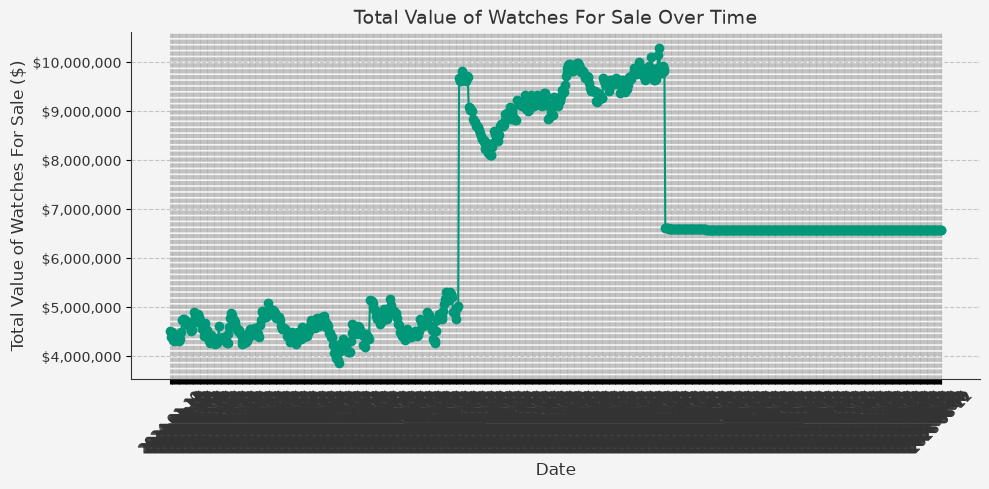
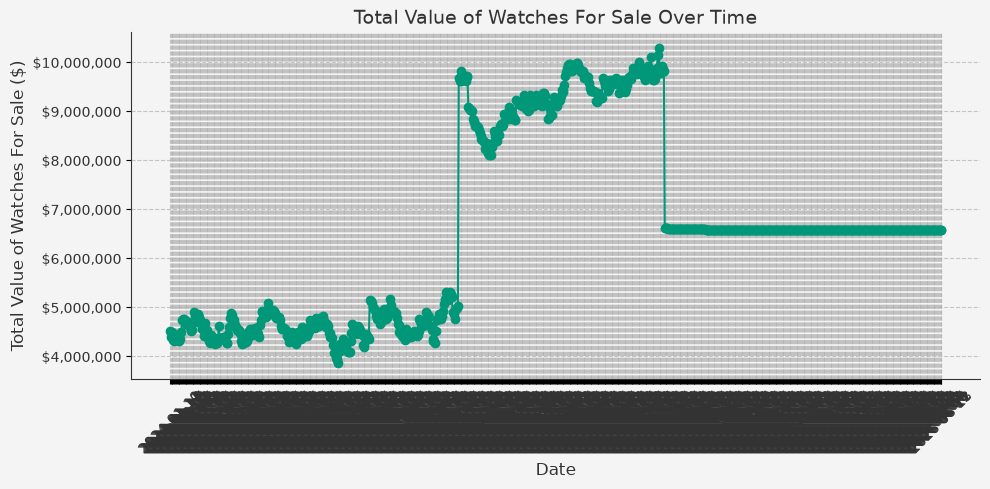
Update docs, portfolio image and portfolio statistics

diff --git a/docs/index.html b/docs/index.html
@@ -54,7 +54,7 @@
     </style>
 </head>
 <body>
-    <h1>Watch Data Report - 2026-06-12</h1>
+    <h1>Watch Data Report - 2026-06-13</h1>
     <div class="stats">
         <h3>Summary Statistics</h3>
         <p>Value of sold Watches: $0.00</p>